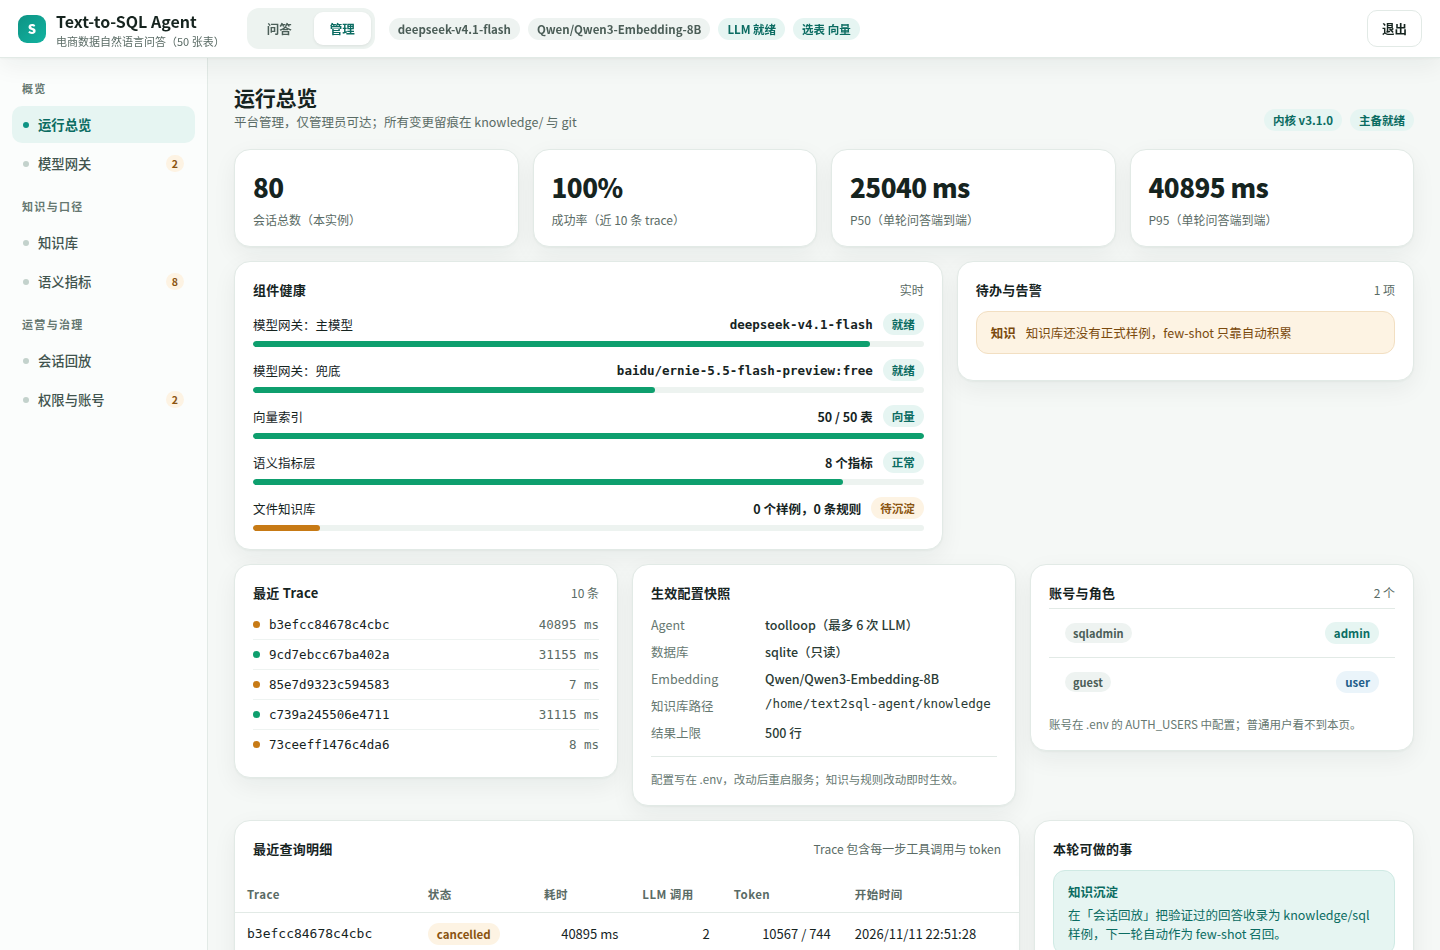
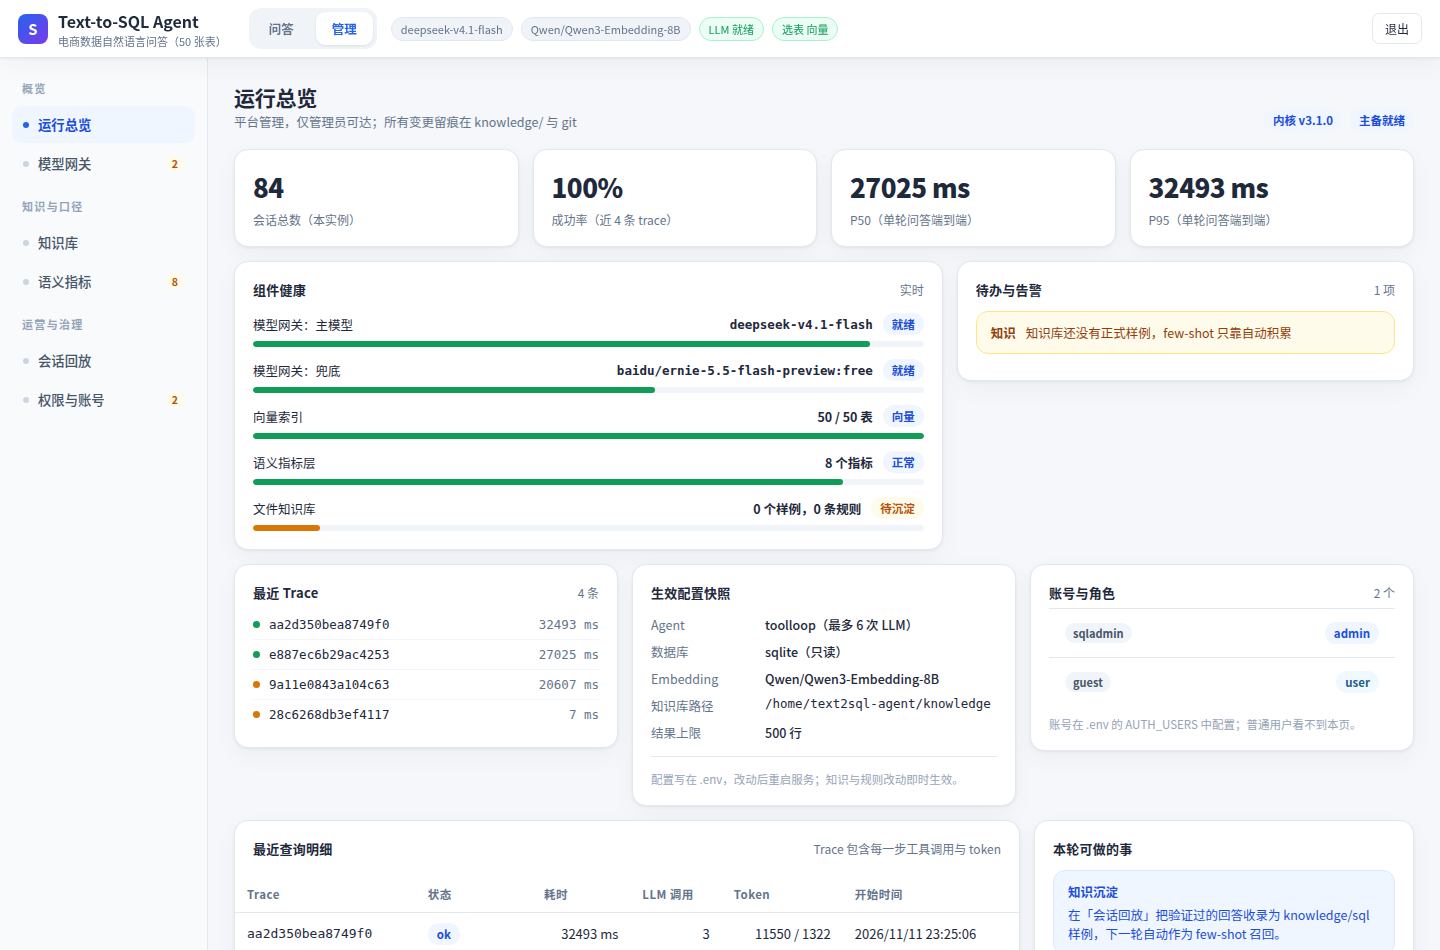
refactor: 回滚青绿配色为项目原有蓝色系，刷新截图
- :root 与管理端组件色板回滚为原蓝色系（仅保留健康条的状态语义色）
- 管理端信息架构与组件结构保持不变（分组侧栏 / KPI / 健康条 / 告警 / 配置快照）
- README 截图按新配色重拍，文案改为「信息架构参考双端原型」

diff --git a/frontend/src/style.css b/frontend/src/style.css
@@ -1,26 +1,26 @@
 :root {
-  /* 调色板取自双端原型（原型 /prototype/dual-end.html）：青绿主色 + 柔和底色 */
-  --bg: #f5f8f6;
+  /* 蓝色系主色（保持项目原有配色） */
+  --bg: #f5f7fa;
   --surface: #ffffff;
-  --surface-2: #edf3f0;
-  --border: #e2eae6;
-  --text: #16241f;
-  --muted: #5a6b65;
-  --muted-2: #667871;
-  --primary-strong: #0b8074;
-  --primary: #0e9384;
-  --primary-soft: #e6f5f2;
-  --success: #0e9f6e;
-  --warn: #c77a15;
-  --danger: #be3b4e;
-  --amber-soft: #fdf3e3;
-  --rose-soft: #fcedef;
-  --sky-soft: #eaf4fa;
-  --violet-soft: #efedfb;
-  --code-bg: #16241f;
+  --surface-2: #f0f3f8;
+  --border: #e2e8f0;
+  --text: #1e293b;
+  --muted: #64748b;
+  --muted-2: #94a3b8;
+  --primary: #2563eb;
+  --primary-strong: #1d4ed8;
+  --primary-soft: #eff6ff;
+  --success: #0f9d58;
+  --warn: #d97706;
+  --danger: #dc2626;
+  --amber-soft: #fffbeb;
+  --rose-soft: #fef2f2;
+  --sky-soft: #f0f9ff;
+  --violet-soft: #f5f3ff;
+  --code-bg: #0f172a;
   --code-text: #e2e8f0;
-  --radius: 16px;
-  --shadow: 0 1px 2px rgba(16, 40, 34, .04), 0 8px 24px rgba(16, 40, 34, .06);
+  --radius: 14px;
+  --shadow: 0 1px 3px rgba(15, 23, 42, .06), 0 8px 24px rgba(15, 23, 42, .04);
   font-family: -apple-system, BlinkMacSystemFont, "Segoe UI", "Noto Sans CJK SC", "PingFang SC", "Microsoft YaHei", sans-serif;
   color: var(--text);
   background: var(--bg);
@@ -45,24 +45,24 @@ input, textarea { font-family: inherit; }
 }
 .brand { display: flex; align-items: center; gap: 10px; font-weight: 700; font-size: 16px; }
 .brand .logo {
-  width: 28px; height: 28px; border-radius: 9px; display: grid; place-items: center;
-  background: linear-gradient(135deg, #0e9384, #12b3a0); color: #fff; font-size: 13px; font-weight: 800;
+  width: 30px; height: 30px; border-radius: 8px; display: grid; place-items: center;
+  background: linear-gradient(135deg, #2563eb, #7c3aed); color: #fff; font-size: 15px;
 }
 .brand small { display: block; font-weight: 400; font-size: 11px; color: var(--muted); }
 .badges { display: flex; gap: 8px; flex-wrap: wrap; }
 .badge {
-  font-size: 11.5px; font-weight: 600; padding: 3px 9px; border-radius: 999px;
-  background: #eef3f1; color: #4b5d57; white-space: nowrap;
+  font-size: 11px; padding: 3px 9px; border-radius: 20px; background: var(--surface-2);
+  color: var(--muted); border: 1px solid var(--border); white-space: nowrap;
 }
-.badge.ok { background: var(--primary-soft); color: #0b6c62; }
-.badge.warn { background: var(--amber-soft); color: #8a5310; }
+.badge.ok { background: #ecfdf5; color: var(--success); border-color: #a7f3d0; }
+.badge.warn { background: #fffbeb; color: var(--warn); border-color: #fde68a; }
 .spacer { flex: 1; }
 .tbtn {
   border: 1px solid var(--border); background: var(--surface); color: var(--text);
-  padding: 8px 14px; border-radius: 10px; font-size: 12.5px; font-weight: 600;
+  padding: 6px 12px; border-radius: 7px; font-size: 12px;
 }
 .tbtn:hover { background: var(--surface-2); }
-.tbtn.active { background: var(--primary-soft); color: #0b6c62; border-color: #cde9e3; }
+.tbtn.active { background: var(--primary-soft); color: var(--primary); border-color: #bfdbfe; }
 
 /* ---------- 主体三栏 ---------- */
 .body { flex: 1; display: flex; min-height: 0; }
@@ -72,16 +72,16 @@ input, textarea { font-family: inherit; }
 }
 .side-title { font-size: 11px; color: var(--muted); letter-spacing: .08em; padding: 16px 16px 8px; }
 .new-chat {
-  margin: 0 12px 12px; padding: 9px 12px; border: none; border-radius: 10px;
-  background: var(--primary-strong); color: #fff; font-size: 13px; font-weight: 600;
+  margin: 0 12px 12px; padding: 9px 12px; border: none; border-radius: 8px;
+  background: var(--primary); color: #fff; font-size: 13px; font-weight: 600;
 }
-.new-chat:hover { background: #096a5e; }
+.new-chat:hover { background: #1d4ed8; }
 .session-item {
   padding: 9px 14px; font-size: 12.5px; border-left: 3px solid transparent;
   cursor: pointer; color: var(--muted); display: flex; gap: 6px; align-items: center;
 }
 .session-item:hover { background: var(--surface-2); }
-.session-item.active { background: var(--primary-soft); color: #0b6c62; border-left-color: var(--primary); }
+.session-item.active { background: var(--primary-soft); color: var(--primary); border-left-color: var(--primary); }
 .session-item span { overflow: hidden; text-overflow: ellipsis; white-space: nowrap; flex: 1; }
 .session-item .del { opacity: 0; font-size: 14px; }
 .session-item:hover .del { opacity: 1; }
@@ -96,7 +96,7 @@ input, textarea { font-family: inherit; }
 .msg { max-width: 980px; margin: 0 auto 20px; }
 .msg-user { display: flex; justify-content: flex-end; }
 .msg-user .bubble {
-  background: var(--primary-strong); color: #fff; padding: 10px 15px; border-radius: 14px 14px 3px 14px;
+  background: var(--primary); color: #fff; padding: 10px 15px; border-radius: 14px 14px 3px 14px;
   font-size: 14px; line-height: 1.6; max-width: 76%; white-space: pre-wrap;
 }
 .assistant-card {
@@ -130,7 +130,7 @@ input, textarea { font-family: inherit; }
   font-size: 11.5px; padding: 3px 9px; color: var(--muted);
 }
 .sql-head button:hover { color: var(--primary); border-color: #bfdbfe; }
-.sql-head button.primary { background: var(--primary-strong); color: #fff; border-color: var(--primary-strong); }
+.sql-head button.primary { background: var(--primary); color: #fff; border-color: var(--primary); }
 .sql-block pre {
   margin: 0; background: var(--code-bg); color: var(--code-text); border-radius: 8px;
   padding: 13px 15px; overflow-x: auto; font-size: 12.5px; line-height: 1.65;
@@ -163,18 +163,18 @@ tbody tr:hover { background: #f8fafc; }
   border-radius: 8px; font-size: 12.5px; line-height: 1.7; margin-top: 10px; }
 
 /* 自动结论 + 可点击追问（Vanna / WrenAI / SuperSonic 的查询后推荐形态） */
-.insight-box { background: var(--primary-soft); border: 1px solid #cfeae4;
+.insight-box { background: var(--primary-soft); border: 1px solid #dbeafe;
   border-radius: 8px; padding: 12px 14px; margin-bottom: 12px; }
 .insight-label { display: flex; align-items: center; gap: 6px; font-size: 11px;
-  color: #0b6c62; font-weight: 700; letter-spacing: .04em; margin-bottom: 6px; }
+  color: var(--primary); font-weight: 700; letter-spacing: .06em; margin-bottom: 6px; }
 .insight-dot { width: 6px; height: 6px; border-radius: 50%; background: var(--primary); }
-.insight-box .followup-chip:hover { background: #0b6c62; border-color: #0b6c62; }
+.insight-box .followup-chip:hover { background: var(--primary); border-color: var(--primary); }
 .insight-text { font-size: 13px; line-height: 1.75; color: var(--text); white-space: pre-wrap; }
 .followups { display: flex; flex-wrap: wrap; align-items: center; gap: 6px; margin-top: 10px; }
 .followups-label { font-size: 11px; color: var(--muted); margin-right: 2px; }
-.followup-chip { border: 1px solid #cde9e3; background: var(--surface); color: #0b6c62;
+.followup-chip { border: 1px solid #bfdbfe; background: var(--surface); color: var(--primary);
   font-size: 11.5px; line-height: 1.45; padding: 5px 10px; border-radius: 16px; text-align: left; }
-.followup-chip:hover { background: var(--primary-strong); color: #fff; border-color: var(--primary-strong); }
+.followup-chip:hover { background: var(--primary); color: #fff; border-color: var(--primary); }
 
 /* 异常问题拒答 / 引导卡片（区别于蓝色结论区） */
 .guidance-box { background: #fffbeb; border: 1px solid #fde68a;
@@ -195,12 +195,12 @@ tbody tr:hover { background: #f8fafc; }
   flex: 1; resize: none; border: 1px solid var(--border); border-radius: 10px;
   padding: 11px 14px; font-size: 14px; line-height: 1.6; outline: none; min-height: 46px; max-height: 140px;
 }
-.composer textarea:focus { border-color: var(--primary); box-shadow: 0 0 0 3px rgba(14,147,132,.14); }
+.composer textarea:focus { border-color: var(--primary); box-shadow: 0 0 0 3px rgba(37,99,235,.08); }
 .send {
   padding: 11px 20px; border: none; border-radius: 10px; background: var(--primary-strong);
   color: #fff; font-size: 13.5px; font-weight: 600; height: 46px;
 }
-.send:hover { background: #096a5e; }
+.send:hover { background: #1d4ed8; }
 .hint { max-width: 980px; margin: 7px auto 0; font-size: 11px; color: var(--muted); }
 
 /* 右侧表结构 */
@@ -240,7 +240,7 @@ tbody tr:hover { background: #f8fafc; }
 }
 .login-card input:focus { border-color: var(--primary); }
 .login-card button {
-  width: 100%; padding: 10px; border: none; border-radius: 8px; background: var(--primary-strong);
+  width: 100%; padding: 10px; border: none; border-radius: 8px; background: var(--primary);
   color: #fff; font-size: 14px; font-weight: 600; margin-top: 6px;
 }
 .login-card .err { margin-top: 12px; }
@@ -339,10 +339,10 @@ tbody tr:hover { background: #f8fafc; }
 }
 .inline-btn:hover { background: var(--surface-2); }
 .btn-primary-teal {
-  border: none; border-radius: 10px; background: var(--primary-strong); color: #fff;
+  border: none; border-radius: 10px; background: var(--primary); color: #fff;
   padding: 8px 14px; font-weight: 600; font-size: 13px;
 }
-.btn-primary-teal:hover { background: #096a5e; }
+.btn-primary-teal:hover { background: #1d4ed8; }
 .send.stop { background: #ef4444; border-color: #ef4444; }
 .toast {
   position: fixed; left: 50%; bottom: 88px; transform: translateX(-50%);
@@ -389,35 +389,34 @@ tbody tr:hover { background: #f8fafc; }
 /* ---------------- 管理后台（双端原型设计语言） ---------------- */
 .view-tabs {
   display: flex; gap: 6px; align-items: center; margin-left: 8px;
-  background: #edf3f0; padding: 4px; border-radius: 12px;
+  background: var(--surface-2); padding: 4px; border-radius: 12px;
 }
 .view-tabs .tbtn {
   border: 0; background: transparent; padding: 7px 16px; border-radius: 9px;
-  color: #4c5f59; font-weight: 600; font-size: 12.5px;
+  color: var(--muted); font-weight: 600; font-size: 12.5px;
 }
 .view-tabs .tbtn:hover { background: rgba(255, 255, 255, .7); }
-.view-tabs .tbtn.active { background: #fff; color: var(--text); box-shadow: 0 1px 3px rgba(0, 0, 0, .08); }
-.view-tabs .tbtn.active { color: #0b6c62; }
+.view-tabs .tbtn.active { background: #fff; color: var(--primary); box-shadow: 0 1px 3px rgba(0, 0, 0, .08); }
 
 .adm-shell { display: flex; flex: 1; min-height: 0; background: var(--bg); }
 .adm-sider {
-  width: 208px; flex: none; background: #fbfdfc; border-right: 1px solid var(--border);
+  width: 208px; flex: none; background: #f8fafc; border-right: 1px solid var(--border);
   padding: 18px 12px; overflow-y: auto;
 }
 .adm-sider-title {
-  font-size: 11px; letter-spacing: .12em; color: #667871; margin: 4px 10px 10px; font-weight: 700;
+  font-size: 11px; letter-spacing: .12em; color: #64748b; margin: 4px 10px 10px; font-weight: 700;
 }
 .adm-sider-title.mt { margin-top: 16px; }
 .adm-nav {
   display: flex; align-items: center; gap: 9px; width: 100%; border: 0; background: transparent;
-  text-align: left; padding: 9px 11px; border-radius: 10px; color: #41544e; margin-bottom: 2px; font-weight: 500;
+  text-align: left; padding: 9px 11px; border-radius: 10px; color: #475569; margin-bottom: 2px; font-weight: 500;
 }
-.adm-nav:hover { background: #eff5f2; }
-.adm-nav.active { background: var(--primary-soft); color: #0b6c62; font-weight: 700; }
-.adm-nav .dot { width: 6px; height: 6px; border-radius: 50%; background: #c3d2cc; flex: none; }
+.adm-nav:hover { background: #f1f5f9; }
+.adm-nav.active { background: var(--primary-soft); color: #1d4ed8; font-weight: 700; }
+.adm-nav .dot { width: 6px; height: 6px; border-radius: 50%; background: #cbd5e1; flex: none; }
 .adm-nav.active .dot { background: var(--primary); }
 .adm-nav .cnt {
-  margin-left: auto; font-size: 10.5px; background: var(--amber-soft); color: #8a5310;
+  margin-left: auto; font-size: 10.5px; background: var(--amber-soft); color: #b45309;
   border-radius: 999px; padding: 1px 6px; font-weight: 700;
 }
 .adm-main { flex: 1; min-width: 0; overflow-y: auto; padding: 24px 26px 40px; }
@@ -458,22 +457,22 @@ tbody tr:hover { background: #f8fafc; }
 
 .adm-badge {
   display: inline-flex; align-items: center; gap: 5px; font-size: 11.5px; font-weight: 600;
-  padding: 3px 9px; border-radius: 999px; background: #eef3f1; color: #4b5d57; white-space: nowrap;
+  padding: 3px 9px; border-radius: 999px; background: #f1f5f9; color: #475569; white-space: nowrap;
 }
-.adm-badge.teal { background: var(--primary-soft); color: #0b6c62; }
-.adm-badge.amber { background: var(--amber-soft); color: #8a5310; }
+.adm-badge.teal { background: var(--primary-soft); color: #1d4ed8; }
+.adm-badge.amber { background: var(--amber-soft); color: #b45309; }
 .adm-badge.rose { background: var(--rose-soft); color: #8e2a39; }
 .adm-badge.sky { background: var(--sky-soft); color: #1f5e8a; }
 .adm-badge.violet { background: var(--violet-soft); color: #443aa0; }
-.adm-pill { font-size: 11px; padding: 2px 8px; border-radius: 999px; background: #eef3f1; color: #4b5d57; font-weight: 600; }
+.adm-pill { font-size: 11px; padding: 2px 8px; border-radius: 999px; background: #f1f5f9; color: #475569; font-weight: 600; }
 
 .adm-btn {
   border: 1px solid var(--border); background: #fff; padding: 8px 14px; border-radius: 10px; font-weight: 600;
   font-size: 13px; color: var(--text);
 }
-.adm-btn:hover { background: #f7faf9; }
+.adm-btn:hover { background: #f8fafc; }
 .adm-btn.primary { background: var(--primary-strong); border-color: var(--primary-strong); color: #fff; }
-.adm-btn.primary:hover { background: #096a5e; }
+.adm-btn.primary:hover { background: #1e40af; }
 .adm-btn.ghost { border-color: transparent; background: transparent; color: var(--muted); }
 .adm-btn.sm { padding: 5px 10px; border-radius: 8px; font-size: 12.5px; }
 .adm-btn:disabled { opacity: .55; cursor: not-allowed; }
@@ -481,15 +480,15 @@ tbody tr:hover { background: #f8fafc; }
 .adm-hbar { margin-bottom: 12px; }
 .adm-hrow { display: flex; align-items: center; gap: 10px; font-size: 12.5px; margin-bottom: 6px; }
 .adm-hrow .grow { flex: 1; }
-.adm-track { height: 6px; border-radius: 999px; background: #edf3f0; overflow: hidden; }
+.adm-track { height: 6px; border-radius: 999px; background: #f1f5f9; overflow: hidden; }
 .adm-track i { display: block; height: 100%; border-radius: 999px; }
 .adm-dist { display: flex; align-items: center; gap: 10px; font-size: 12.5px; margin-bottom: 9px; }
 .adm-dist .nm { width: 92px; color: var(--muted); }
-.adm-dist .tr { flex: 1; height: 6px; background: #edf3f0; border-radius: 999px; overflow: hidden; }
+.adm-dist .tr { flex: 1; height: 6px; background: #f1f5f9; border-radius: 999px; overflow: hidden; }
 .adm-dist .tr i { display: block; height: 100%; }
 .adm-rec {
   display: flex; align-items: center; gap: 9px; font-size: 12.5px; padding: 7px 0;
-  border-bottom: 1px solid #eef3f1; font-family: ui-monospace, Menlo, monospace;
+  border-bottom: 1px solid #f1f5f9; font-family: ui-monospace, Menlo, monospace;
 }
 .adm-rec:last-child { border-bottom: 0; }
 .adm-rec .t { margin-left: auto; color: var(--muted); font-family: inherit; }
@@ -500,13 +499,13 @@ tbody tr:hover { background: #f8fafc; }
   font-size: 12.5px; margin-bottom: 8px;
 }
 .adm-alert b { white-space: nowrap; }
-.adm-alert.rose { background: var(--rose-soft); color: #7e2433; border: 1px solid #f3d4d8; }
-.adm-alert.amber { background: var(--amber-soft); color: #7a4a0d; border: 1px solid #f2dfc2; }
-.adm-alert.teal { background: var(--primary-soft); color: #0b6c62; border: 1px solid #cfeae4; }
+.adm-alert.rose { background: var(--rose-soft); color: #991b1b; border: 1px solid #fecaca; }
+.adm-alert.amber { background: var(--amber-soft); color: #92400e; border: 1px solid #fde68a; }
+.adm-alert.teal { background: var(--primary-soft); color: #1d4ed8; border: 1px solid #dbeafe; }
 
 .adm-kv { display: grid; grid-template-columns: 104px 1fr; gap: 8px 10px; font-size: 12.5px; }
-.adm-kv dt { color: #667871; }
-.adm-kv dd { margin: 0; color: #2a3b35; font-weight: 500; word-break: break-all; }
+.adm-kv dt { color: #64748b; }
+.adm-kv dd { margin: 0; color: #1e293b; font-weight: 500; word-break: break-all; }
 .adm-divider { height: 1px; background: var(--border); margin: 14px 0; }
 
 .adm-field { margin-bottom: 14px; }
@@ -523,13 +522,13 @@ tbody tr:hover { background: #f8fafc; }
   font-size: 11.5px; color: var(--muted); font-weight: 700; text-align: left; padding: 10px 12px;
   border-bottom: 1px solid var(--border); letter-spacing: .04em;
 }
-.adm-table td { padding: 10px 12px; border-bottom: 1px solid #eef3f1; vertical-align: middle; font-size: 13px; }
+.adm-table td { padding: 10px 12px; border-bottom: 1px solid #f1f5f9; vertical-align: middle; font-size: 13px; }
 .adm-table th { position: sticky; top: 0; z-index: 1; background: var(--surface); }
 .adm-table td.n { text-align: right; font-variant-numeric: tabular-nums; }
 .adm-kpi .n { font-variant-numeric: tabular-nums; }
 .adm-table tr:last-child td { border-bottom: 0; }
-.adm-table tr:hover td { background: #fafcfb; }
-.adm-table .sql { font-family: ui-monospace, Menlo, monospace; color: #2f4a42; max-width: 420px; }
+.adm-table tr:hover td { background: #f8fafc; }
+.adm-table .sql { font-family: ui-monospace, Menlo, monospace; color: #334155; max-width: 420px; }
 
 .adm-list-card { display: flex; align-items: center; gap: 12px; padding: 13px 16px; border-top: 1px solid var(--border); }
 .adm-list-card:first-child { border-top: 0; }
@@ -546,7 +545,7 @@ tbody tr:hover { background: #f8fafc; }
 .adm-empty { padding: 26px 18px; text-align: center; }
 .adm-empty .t { font-size: 13px; font-weight: 600; color: var(--text); margin-bottom: 4px; }
 .adm-empty .s { font-size: 12px; color: var(--muted); }
-.adm-skeleton { height: 12px; border-radius: 6px; background: linear-gradient(90deg, #eef3f1, #f7faf9, #eef3f1);
+.adm-skeleton { height: 12px; border-radius: 6px; background: linear-gradient(90deg, #f1f5f9, #f8fafc, #f1f5f9);
   background-size: 200% 100%; animation: admShimmer 1.2s linear infinite; margin: 10px 12px; }
 @keyframes admShimmer { from { background-position: 200% 0; } to { background-position: -200% 0; } }
 .adm-row-arrow { color: var(--muted-2); font-size: 15px; transition: transform .18s ease, color .18s ease; }

diff --git a/frontend/src/components/AdminPanel.vue b/frontend/src/components/AdminPanel.vue
@@ -113,7 +113,7 @@
               <span class="adm-tiny adm-muted">{{ overview?.metrics?.traces ?? 0 }} 条</span>
             </div>
             <div v-for="t in overview?.recent_traces || []" :key="t.trace_id" class="adm-rec">
-              <span class="adm-dot-s" :style="t.status === 'ok' ? 'background:#0e9f6e' : 'background:#c77a15'"></span>
+              <span class="adm-dot-s" :style="t.status === 'ok' ? 'background:#0f9d58' : 'background:#d97706'"></span>
               <span>{{ t.trace_id }}</span>
               <span class="t">{{ ms(t.duration_ms) }}</span>
             </div>
@@ -402,7 +402,7 @@
         <div class="adm-card adm-pad">
           <div class="adm-h2">标准 JOIN</div>
           <div v-for="(j, i) in semantic?.joins || []" :key="i" class="adm-mono adm-tiny"
-               style="padding:6px 0;border-bottom:1px solid #eef3f1">{{ j.on }}</div>
+               style="padding:6px 0;border-bottom:1px solid #f1f5f9">{{ j.on }}</div>
           <div v-if="!(semantic?.joins || []).length" class="adm-hint">未配置</div>
         </div>
       </div>
@@ -444,7 +444,7 @@
               <div class="t">选择左侧会话</div>
               <div class="s">可以查看消息、SQL，并把验证过的回答收录进知识库</div>
             </div>
-            <div v-for="h in history" :key="h.id" style="padding:11px 0;border-bottom:1px solid #eef3f1">
+            <div v-for="h in history" :key="h.id" style="padding:11px 0;border-bottom:1px solid #f1f5f9">
               <div class="adm-between">
                 <span class="adm-badge" :class="h.role === 'user' ? 'sky' : 'teal'">
                   {{ h.role === 'user' ? '用户' : 'Agent' }}</span>
@@ -620,7 +620,7 @@ function time(ts) {
   return Number.isNaN(d.getTime()) ? 'n/a' : d.toLocaleString()
 }
 function bar(pctValue, ok) {
-  return { width: `${Math.max(4, Math.min(100, pctValue || 0))}%`, background: ok ? '#0e9f6e' : '#c77a15' }
+  return { width: `${Math.max(4, Math.min(100, pctValue || 0))}%`, background: ok ? '#0f9d58' : '#d97706' }
 }
 function csv(s) { return String(s || '').split(',').map(x => x.trim()).filter(Boolean) }
 

diff --git a/frontend/src/components/ResultPanel.vue b/frontend/src/components/ResultPanel.vue
@@ -31,16 +31,16 @@
           <g v-for="(p, i) in points" :key="'b' + i">
             <rect :x="p.x" :y="Math.min(zeroY, p.y)" :width="barW"
                   :height="Math.max(1, Math.abs(zeroY - p.y))"
-                  :fill="p.value < 0 ? '#ef4444' : '#0e9384'" rx="2" />
+                  :fill="p.value < 0 ? '#ef4444' : '#2563eb'" rx="2" />
             <text v-if="i % labelStep === 0" :x="p.x + barW / 2" :y="H - 12"
                   text-anchor="middle" font-size="9" fill="#64748b">{{ p.label }}</text>
           </g>
         </template>
         <template v-else>
           <polyline :points="points.map(p => `${p.x + barW / 2},${p.y}`).join(' ')"
-                    fill="none" stroke="#0e9384" stroke-width="2.2" />
+                    fill="none" stroke="#2563eb" stroke-width="2.2" />
           <g v-for="(p, i) in points" :key="'l' + i">
-            <circle :cx="p.x + barW / 2" :cy="p.y" r="2.6" fill="#0e9384" />
+            <circle :cx="p.x + barW / 2" :cy="p.y" r="2.6" fill="#2563eb" />
             <text v-if="i % labelStep === 0" :x="p.x + barW / 2" :y="H - 12"
                   text-anchor="middle" font-size="9" fill="#64748b">{{ p.label }}</text>
           </g>
